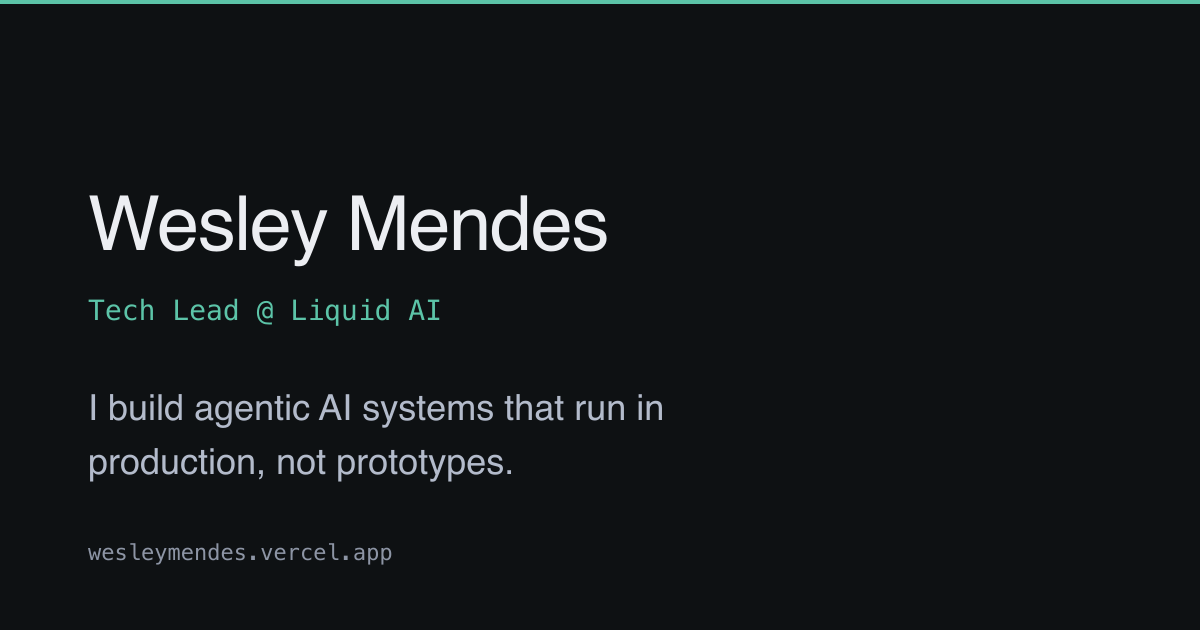
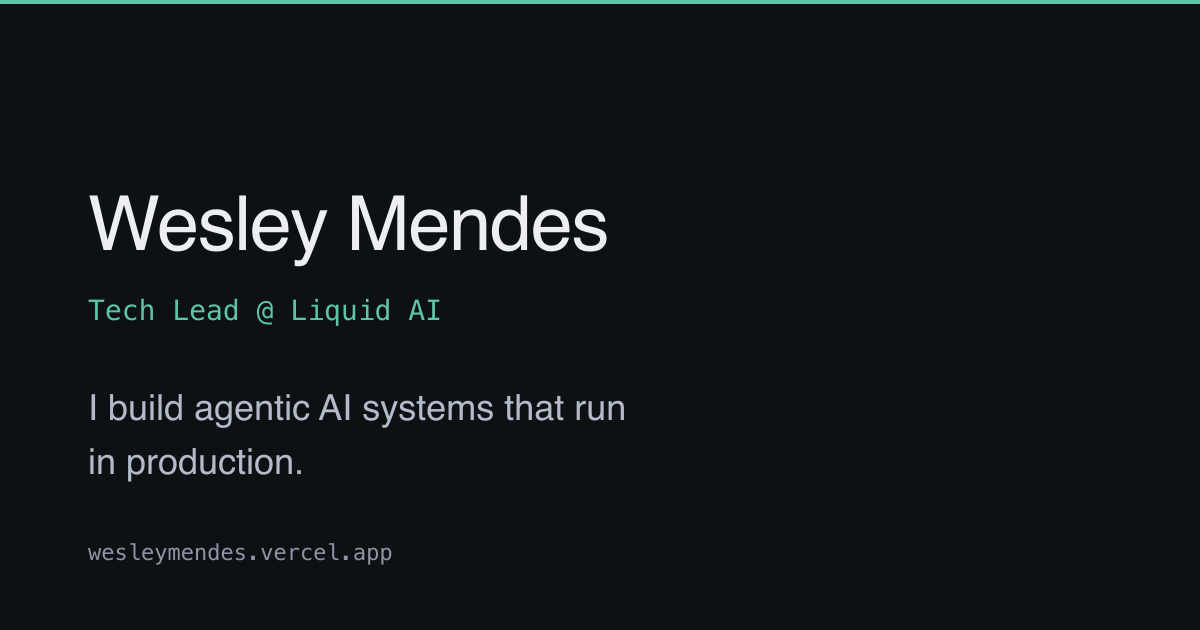
Edit the copy to sound written rather than generated
Ran the prose through the humanizer checklist. The text said the right
things but kept reaching for the same rhetorical move: four separate
sentences across the site were built as "X rather than Y", where the
negative half named a position nobody had taken. Once one of them is a
habit, all of them read as a habit.

- State the claims directly. Reliability now "lives in the code around
  the model" instead of being "structural rather than prompted"; the
  About section says what I look for in a team without first saying what
  I don't.
- Drop the tagline's second half, so the line asserts instead of
  comparing. Updated the meta description, the Open Graph and Twitter
  cards, llms.txt, and redrew the share image, which had the old wording
  baked into the PNG.
- Give the project blurbs a subject and a verb. Three of the four opened
  as a bare noun phrase with a colon and a list hanging off it, which
  reads like a flattened bullet point.
- Remove the em dashes from the running text, keeping them only in date
  ranges and the page title, where they are notation.
- Cut "end to end" where "from domain model to deploy" already said it,
  and drop an interface string no component ever read.
- Rewrite the README the same way, and document the diagram descriptions
  and the token rule the drawings follow.

Claude-Session: https://claude.ai/code/session_01UMbPrU7eoLHM4qSXZtEQGz

Changed region(s): [[0.0617, 0.6937, 0.4317, 0.754], [0.5242, 0.6333, 0.555, 0.6635]]

diff --git a/src/content/projects.ts b/src/content/projects.ts
@@ -22,8 +22,8 @@ export const projects: Project[] = [
       pt: 'Atendente agêntica no WhatsApp',
     },
     description: {
-      en: 'A tool-calling converse-loop on Amazon Bedrock with eleven action tools and a RAG sub-agent over a knowledge base I built and publish through its own pipeline. Reliability is structural rather than prompted: deterministic gates resolve before the model runs, guardrails enforce consent and PII masking in code, and every figure is rendered in code — the model never writes a number.',
-      pt: 'Um loop de conversa com tool calling sobre Amazon Bedrock, com onze ferramentas de ação e um sub-agente de RAG sobre uma base de conhecimento que construí e publico por um pipeline próprio. A confiabilidade é estrutural, não prompted: travas determinísticas resolvem antes do modelo rodar, guardrails aplicam consentimento e mascaramento de PII em código, e todo número é renderizado em código — o modelo nunca escreve um valor.',
+      en: 'A converse loop on Amazon Bedrock where the model calls eleven action tools and a RAG sub-agent, reading from a knowledge base I built and publish through its own pipeline. The reliability lives in the code around the model. Deterministic gates resolve before it runs, guardrails enforce consent and PII masking, and every figure in a reply is rendered by code, so the model never writes a number.',
+      pt: 'Um loop de conversa sobre o Amazon Bedrock em que o modelo chama onze ferramentas de ação e um sub-agente de RAG, que lê uma base de conhecimento que construí e publico por um pipeline próprio. A confiabilidade mora no código em volta do modelo. As travas determinísticas resolvem antes de ele rodar, os guardrails aplicam consentimento e mascaramento de PII, e todo número de uma resposta é renderizado por código, então o modelo nunca escreve um valor.',
     },
     diagramTitle: {
       en: 'Architecture: WhatsApp input passes deterministic gates, then a converse loop where the Bedrock model exchanges turns with eleven tools and a RAG sub-agent, then guardrails for consent and PII masking, and finally a reply whose figures are rendered in code.',
@@ -48,8 +48,8 @@ export const projects: Project[] = [
       pt: 'Harness multiagente de desenvolvimento',
     },
     description: {
-      en: 'A planner lays the work queue out as a dependency graph and dispatches everything unblocked in parallel. Implementer agents run per service against versioned ADRs, reviewer agents send corrections back, a contract reviewer checks service boundaries, and a publisher opens the PR. Humans stay at both ends: defining the task and validating the delivery.',
-      pt: 'Um planejador organiza a fila de trabalho como um grafo de dependências e dispara em paralelo tudo que está desbloqueado. Agentes implementadores rodam por serviço contra ADRs versionadas, agentes revisores devolvem correções, um revisor de contrato checa as fronteiras entre serviços e um publicador abre o PR. O humano fica nas duas pontas: definindo a tarefa e validando a entrega.',
+      en: 'A planner turns the work queue into a dependency graph and dispatches everything unblocked at once. Implementer agents run per service against versioned ADRs, reviewer agents send corrections back, a contract reviewer checks the boundaries between services, and a publisher opens the PR. A person defines the task at one end and validates the delivery at the other.',
+      pt: 'Um planejador transforma a fila de trabalho num grafo de dependências e dispara de uma vez tudo que está desbloqueado. Agentes implementadores rodam por serviço contra ADRs versionadas, agentes revisores devolvem correções, um revisor de contrato checa as fronteiras entre serviços e um publicador abre o PR. Uma pessoa define a tarefa numa ponta e valida a entrega na outra.',
     },
     diagramTitle: {
       en: 'Architecture: a human defines the task, a planner turns it into a dependency graph and dispatches parallel lanes of implementer and reviewer agents, then a contract reviewer checks service boundaries and a publisher opens the pull request.',
@@ -66,8 +66,8 @@ export const projects: Project[] = [
       pt: 'CRM de operação agêntica',
     },
     description: {
-      en: 'Front end and API built from scratch: hexagonal architecture, published OpenAPI contract, versioned migrations with an audit trail, per-feature authorization, and a domain model with arbitration-free identity merging. Agents work the pipeline alongside human analysts.',
-      pt: 'Front-end e API construídos do zero: arquitetura hexagonal, contrato OpenAPI publicado, migrações versionadas com trilha de auditoria, autorização por funcionalidade e um modelo de domínio com fusão de identidades sem arbitragem. Agentes trabalham o funil ao lado dos analistas humanos.',
+      en: 'I built the front end and the API from scratch: a hexagonal API that publishes its OpenAPI contract, versioned migrations with an audit trail, authorization per feature, and a domain model that merges duplicate identities without arbitration. Agents work the pipeline alongside human analysts.',
+      pt: 'Construí o front-end e a API do zero: uma API hexagonal que publica seu contrato OpenAPI, migrações versionadas com trilha de auditoria, autorização por funcionalidade e um modelo de domínio que funde identidades duplicadas sem arbitragem. Agentes trabalham o funil ao lado dos analistas humanos.',
     },
     diagramTitle: {
       en: 'Architecture: analysts and agents both enter through a published OpenAPI contract, FastAPI adapters wrap a hexagonal domain core that handles identity merging, with per-feature authorization and MongoDB behind ports, and versioned migrations with an audit trail underneath.',
@@ -84,8 +84,8 @@ export const projects: Project[] = [
       pt: 'SaaS jurídico com IA',
     },
     description: {
-      en: 'From nothing to a billable product, built solo: multi-tenant with cross-tenant isolation covered by tests, Stripe subscription billing with usage limits and dunning, AI cost governance with quotas and per-operation ceilings, and data-protection compliance shipped before the first customer.',
-      pt: 'Do zero a um produto faturável, sozinho: multi-tenant com isolamento entre tenants coberto por testes, cobrança por assinatura no Stripe com limites de uso e régua de inadimplência, governança de custo de IA com cotas e tetos por operação, e conformidade com proteção de dados entregue antes do primeiro cliente.',
+      en: 'I built this alone, from nothing to a product that bills customers. It is multi-tenant, and the isolation between tenants is covered by tests. Stripe handles the subscriptions, the usage limits and the dunning, quotas and per-operation ceilings keep the AI cost in check, and the data-protection work was done before the first customer signed up.',
+      pt: 'Construí sozinho, do zero até um produto que fatura. É multi-tenant, e o isolamento entre tenants é coberto por testes. O Stripe cuida das assinaturas, dos limites de uso e da régua de inadimplência; cotas e tetos por operação seguram o custo de IA; e a conformidade com proteção de dados ficou pronta antes de o primeiro cliente entrar.',
     },
     diagramTitle: {
       en: 'Architecture: several tenants share one application behind an isolation boundary covered by tests, with Stripe handling subscription limits and dunning on one side and AI quotas capping cost per operation on the other, PostgreSQL holding per-tenant data, and data-protection compliance underneath.',

diff --git a/src/content/about.ts b/src/content/about.ts
@@ -2,11 +2,11 @@ import type { Localized } from './types';
 
 export const about: Localized[] = [
   {
-    en: 'I lead engineering at an AI company, where most of what I build has to survive contact with real users on the first try. My bias is to put reliability in the architecture rather than in a prompt: deterministic paths where correctness matters, and the model only where judgement does.',
-    pt: 'Lidero engenharia numa empresa de IA, onde quase tudo que construo precisa sobreviver ao contato com usuários reais na primeira tentativa. Minha inclinação é colocar confiabilidade na arquitetura, não no prompt: caminho determinístico onde exatidão importa, e o modelo só onde há julgamento.',
+    en: 'I lead engineering at an AI company, where most of what I build has to survive contact with real users on the first try. That pushed me toward putting the reliability in the architecture: a deterministic path wherever correctness matters, and the model only where the work needs judgement.',
+    pt: 'Lidero engenharia numa empresa de IA, onde quase tudo que construo precisa sobreviver ao contato com usuários reais na primeira tentativa. Isso me empurrou para colocar a confiabilidade na arquitetura: caminho determinístico onde exatidão importa, e o modelo só onde o trabalho exige julgamento.',
   },
   {
-    en: 'I am looking for teams putting agentic systems in production — remote, in English or Portuguese — where architecture decisions are argued rather than assumed.',
-    pt: 'Procuro times colocando sistemas agênticos em produção — remoto, em inglês ou português — onde decisões de arquitetura são discutidas, não presumidas.',
+    en: 'I am looking for a remote team putting agentic systems in production, in English or Portuguese, where people argue about the architecture before committing to it.',
+    pt: 'Procuro um time remoto colocando sistemas agênticos em produção, em inglês ou português, onde se discute a arquitetura antes de se comprometer com ela.',
   },
 ];

diff --git a/index.html b/index.html
@@ -11,26 +11,20 @@
     <title>Wesley Mendes — Tech Lead &amp; AI Engineer</title>
     <meta
       name="description"
-      content="Wesley Mendes builds agentic AI systems that run in production, not prototypes. Tech Lead at Liquid AI."
+      content="Wesley Mendes is a Tech Lead at Liquid AI. He builds agentic AI systems that run in production."
     />
 
     <meta property="og:type" content="website" />
     <meta property="og:url" content="https://wesleymendes.vercel.app/" />
     <meta property="og:title" content="Wesley Mendes — Tech Lead &amp; AI Engineer" />
-    <meta
-      property="og:description"
-      content="I build agentic AI systems that run in production, not prototypes."
-    />
+    <meta property="og:description" content="I build agentic AI systems that run in production." />
     <meta property="og:image" content="https://wesleymendes.vercel.app/og.png" />
     <meta property="og:image:width" content="1200" />
     <meta property="og:image:height" content="630" />
 
     <meta name="twitter:card" content="summary_large_image" />
     <meta name="twitter:title" content="Wesley Mendes — Tech Lead &amp; AI Engineer" />
-    <meta
-      name="twitter:description"
-      content="I build agentic AI systems that run in production, not prototypes."
-    />
+    <meta name="twitter:description" content="I build agentic AI systems that run in production." />
     <meta name="twitter:image" content="https://wesleymendes.vercel.app/og.png" />
 
     <script type="application/ld+json">

diff --git a/src/content/experience.ts b/src/content/experience.ts
@@ -20,12 +20,12 @@ export const experience: Role[] = [
     start: '2025-11',
     highlights: [
       {
-        en: 'Own the architecture of the agentic assistant and the operations CRM end to end, from domain model to deploy.',
-        pt: 'Respondo pela arquitetura da atendente agêntica e do CRM de operação de ponta a ponta, do modelo de domínio ao deploy.',
+        en: 'Own the architecture of the agentic assistant and the operations CRM, from domain model to deploy.',
+        pt: 'Respondo pela arquitetura da atendente agêntica e do CRM de operação, do modelo de domínio ao deploy.',
       },
       {
-        en: 'Introduced versioned ADRs and contract review as the way architectural decisions get made and kept.',
-        pt: 'Introduzi ADRs versionadas e revisão de contrato como a forma de tomar e sustentar decisões de arquitetura.',
+        en: 'Introduced versioned ADRs and contract review, so architecture decisions get written down and stay put.',
+        pt: 'Introduzi ADRs versionadas e revisão de contrato, para que decisões de arquitetura fiquem registradas e se sustentem.',
       },
       {
         en: 'Built the multi-agent harness the team uses to plan, implement and review work in parallel.',

diff --git a/src/i18n/pt.ts b/src/i18n/pt.ts
@@ -14,11 +14,10 @@ export const pt: Record<TranslationKey, string> = {
   'lang.toggle': 'PT, mudar para inglês',
   'hero.viewWork': 'Ver projetos',
   'hero.photoAlt': 'Retrato de Wesley Mendes',
-  'work.title': 'Trabalho selecionado',
+  'work.title': 'Projetos selecionados',
   'work.earlier': 'Projetos anteriores',
   'work.earlierHint': 'Projetos de bootcamp e estudo, mantidos como registro.',
   'experience.title': 'Experiência',
-  'experience.expand': 'Mostrar detalhes de',
   'stack.title': 'Stack',
   'about.title': 'Sobre',
   'contact.title': 'Contato',

diff --git a/src/content/profile.ts b/src/content/profile.ts
@@ -11,7 +11,7 @@ export const profile = {
   photo: '/profile.webp',
   photoLarge: '/profile-large.webp',
   tagline: {
-    en: 'I build agentic AI systems that run in production, not prototypes.',
-    pt: 'Construo sistemas de IA agênticos que rodam em produção, não protótipos.',
+    en: 'I build agentic AI systems that run in production.',
+    pt: 'Construo sistemas de IA agênticos que rodam em produção.',
   } satisfies Localized,
 };

diff --git a/src/i18n/en.ts b/src/i18n/en.ts
@@ -16,7 +16,6 @@ export const en = {
   'work.earlier': 'Earlier projects',
   'work.earlierHint': 'Bootcamp and study projects, kept for the record.',
   'experience.title': 'Experience',
-  'experience.expand': 'Show details for',
   'stack.title': 'Stack',
   'about.title': 'About',
   'contact.title': 'Contact',

diff --git a/README.md b/README.md
@@ -1,15 +1,15 @@
 # Portfolio
 
-Personal site of Wesley Mendes — Tech Lead building agentic AI systems.
+Personal site of Wesley Mendes, Tech Lead building agentic AI systems.
 
-Published at **https://wesleymendes.vercel.app/**
+Published at https://wesleymendes.vercel.app/
 
 ## Stack
 
 Vite · React 19 · TypeScript · Tailwind CSS v4 · Framer Motion · Vitest.
 
-No UI framework and no CSS-in-JS: the design system lives in `src/index.css` as
-CSS custom properties, exposed to Tailwind through `@theme`.
+There is no UI framework and no CSS-in-JS. The design system lives in
+`src/index.css` as CSS custom properties, exposed to Tailwind through `@theme`.
 
 ## Running locally
 
@@ -31,24 +31,27 @@ npm run dev
 
 ## Editing content
 
-All copy lives under `src/content/` as typed data — never inside JSX. Each entry
+All copy lives under `src/content/` as typed data, never inside JSX. Each entry
 carries both languages:
 
-- `projects.ts` — selected work, plus the collapsed earlier projects
-- `experience.ts` — roles and their bullets
-- `stack.ts` — grouped technologies
-- `about.ts`, `profile.ts` — bio, links, contact details
+- `projects.ts`, the selected work plus the collapsed earlier projects
+- `experience.ts`, the roles and their bullets
+- `stack.ts`, the grouped technologies
+- `about.ts` and `profile.ts`, the bio, links and contact details
 
-Interface strings (nav labels, buttons) live in `src/i18n/{en,pt}.ts`. English is
-the default; Portuguese is picked up from `navigator.language` or the language
-toggle, and persisted in `localStorage`.
+Each project also carries a written description of its diagram, which is what a
+screen reader announces in place of the drawing.
+
+Interface strings such as nav labels and buttons live in `src/i18n/{en,pt}.ts`.
+English is the default. Portuguese comes from `navigator.language` or the
+language toggle, and the choice is kept in `localStorage`.
 
 ## Conventions
 
-- Technical labels are `<span>`, never `<button>` — a button is something that
-  acts.
+- Technical labels are `<span>`. A button is something that acts, so a label
+  that does nothing is not one.
 - External links go through `ExternalLink`, which always sets
   `rel="noopener noreferrer"`.
-- Colour, spacing and radius come from tokens; components do not hardcode hex
-  values.
+- Colour, spacing and radius come from tokens. Components do not hardcode hex
+  values, and neither do the diagrams, which is how they follow the theme.
 - Animation is opt-out under `prefers-reduced-motion`.
